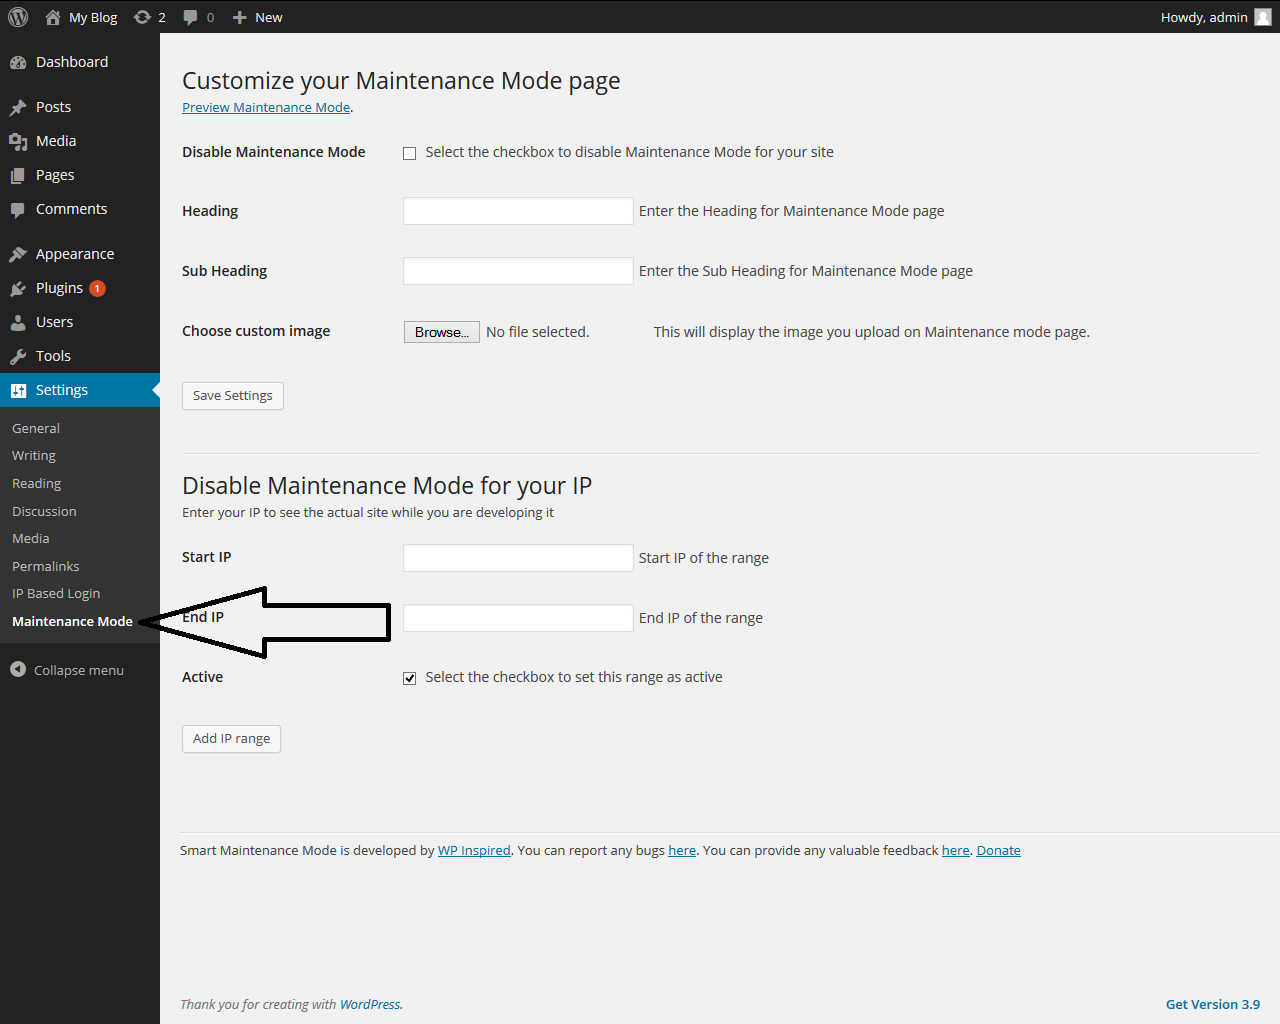
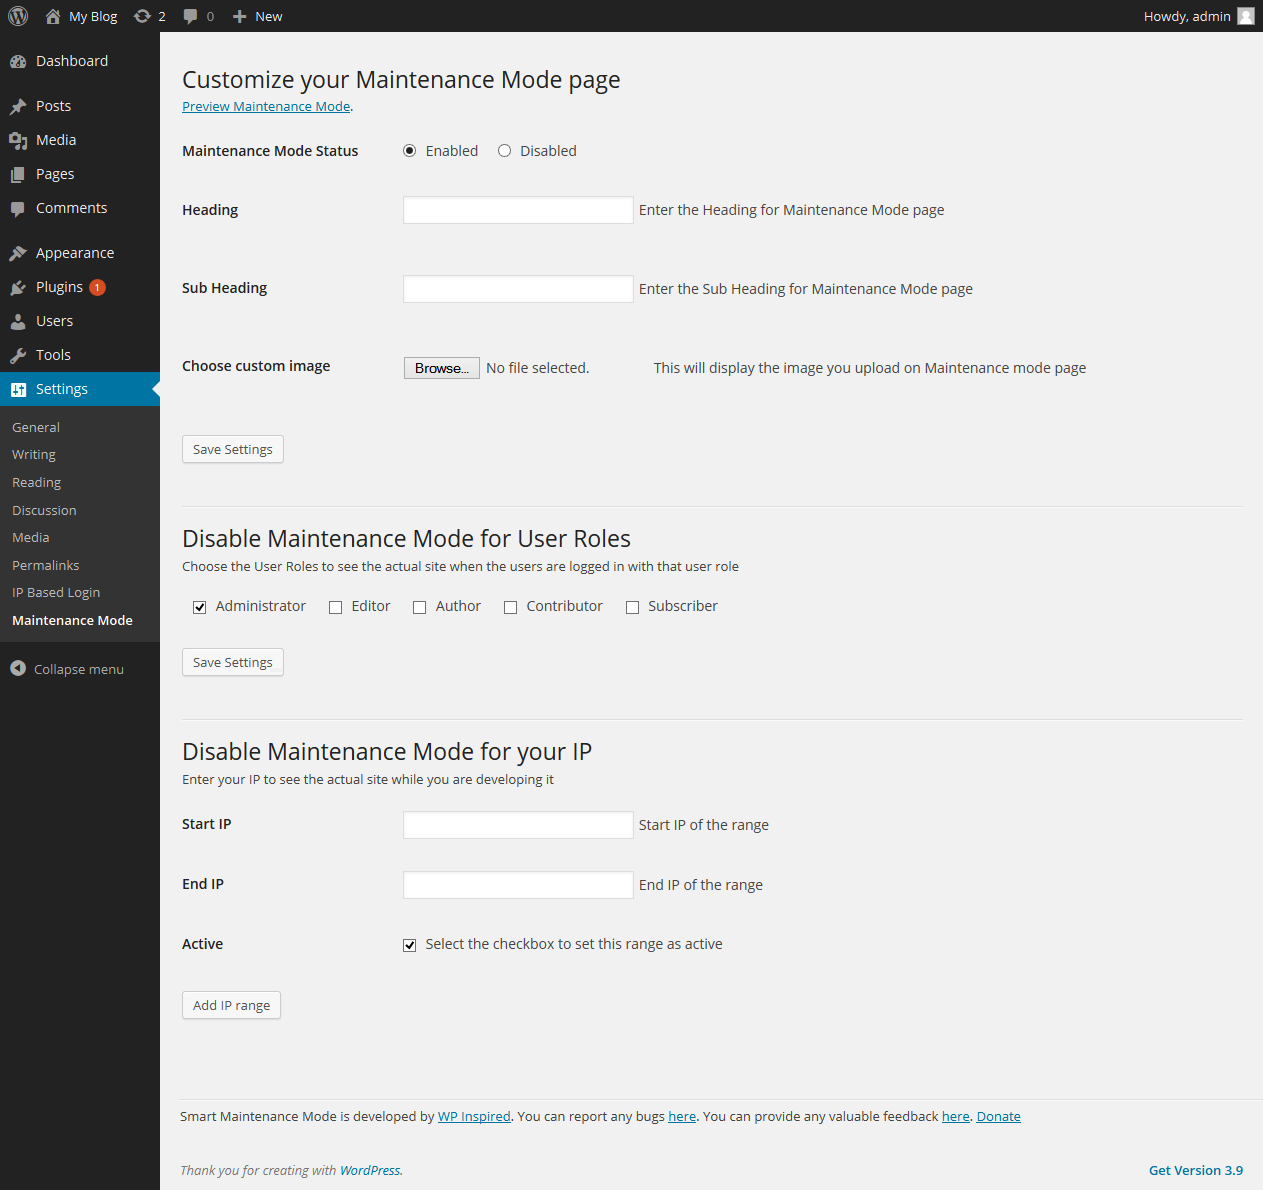
Added option to maintenance mode disabled for particular user roles
git-svn-id: https://plugins.svn.wordpress.org/smart-maintenance-mode/trunk@903410 b8457f37-d9ea-0310-8a92-e5e31aec5664

diff --git a/smart-maintenance-mode.php b/smart-maintenance-mode.php
@@ -1,13 +1,13 @@
 <?php
 /**
  * @package smart-maintenance-mode
- * @version 1.1
+ * @version 1.2
  */
 /*
 Plugin Name: Smart Maintenance Mode
 Plugin URI: http://wordpress.org/extend/plugins/smart-maintenance-mode/
 Description: Smart Maintenance Mode is a plugin which allows you to set your site to maintenance mode so that your readers see the Coming Soon page while you can see the actual development of your site. You can create ranges and define the IP range which will see the actual site using Smart Maintenance Mode.
-Version: 1.1
+Version: 1.2
 Author: Brijesh Kothari
 Author URI: http://www.wpinspired.com/
 License: GPLv3 or later
@@ -34,7 +34,7 @@ if(!function_exists('add_action')){
 	exit;
 }
 
-define('smm_version', '1.1');
+define('smm_version', '1.2');
 
 // Ok so we are now ready to go
 register_activation_hook( __FILE__, 'smart_maintenance_mode_activation');
@@ -85,7 +85,7 @@ global $wpdb;
 
 function maintenance_mode_page(){
 	
-	global $wpdb;
+	global $wpdb, $current_user;
 	
 	$logged_ip = smm_getip();
 	$result = '';
@@ -93,6 +93,9 @@ function maintenance_mode_page(){
 	$smm_heading = get_option('smm_heading');
 	$smm_subheading = get_option('smm_subheading');
 	$smm_image = get_option('smm_image');
+	$smm_roles = unserialize(get_option('smm_roles'));	
+	
+	$current_user_role = current($current_user->roles);
 	
 	$smm_heading = (!empty($smm_heading) ? $smm_heading : 'Website Under Maintenance');
 	$smm_subheading = (!empty($smm_subheading) ? $smm_subheading : 'This website is currently under going maintenance. We will be back online shortly. Please check back later !');
@@ -101,7 +104,7 @@ function maintenance_mode_page(){
 	$result = smm_selectquery($query);
 	
 	// Show the maintenance mode page
-	if(empty($disable_smm) && (empty($result) || !empty($_REQUEST['smm_preview']))){
+	if(!empty($_REQUEST['smm_preview']) || ((empty($result) && empty($smm_roles[$current_user_role]) && empty($disable_smm)))){
 		
 		echo '<title>'.get_option('blogname').' | Maintenance Mode</title>';
 		
@@ -251,7 +254,7 @@ function smm_objectToArray($d){
 
 function smart_maintenance_mode_option_page(){
 
-	global $wpdb;
+	global $wpdb, $wp_roles;
 	 
 	if(!current_user_can('manage_options')){
 		wp_die('Sorry, but you do not have permissions to change settings.');
@@ -260,6 +263,24 @@ function smart_maintenance_mode_option_page(){
 	/* Make sure post was from this page */
 	if(count($_POST) > 0){
 		check_admin_referer('smart-maintenance-mode-options');
+	}
+	
+	if(isset($_POST['save_user_roles'])){
+		$_user_roles = array();
+		
+		foreach($wp_roles->roles as $srk => $srv){
+			$_user_roles[$srk] = (smm_is_checked('role_'.$srk) ? 1 : 0);
+		}
+		
+		update_option('smm_roles', serialize($_user_roles));		
+
+		$saved = true;
+			
+		if(!empty($saved)){
+			echo '<div id="message" class="updated fade"><p>'
+				. __('The settings were saved successfully', 'smart-maintenance-mode')
+				. '</p></div>';
+		}
 	}
 	
 	if(isset($_POST['save_smm'])){
@@ -458,6 +479,8 @@ function smart_maintenance_mode_option_page(){
 	$smm_heading = get_option('smm_heading');
 	$smm_subheading = get_option('smm_subheading');
 	$smm_image = get_option('smm_image');
+	$smm_roles = unserialize(get_option('smm_roles'));
+	//print_r($smm_roles);
 	
 	?>
     
@@ -513,6 +536,28 @@ function smart_maintenance_mode_option_page(){
 		  </tr>
 		</table><br />
 		<input name="save_smm" class="button action" value="<?php echo __('Save Settings','smart-maintenance-mode'); ?>" type="submit" />		
+	  </form>
+      
+      <br /><br />
+      <hr />      
+	  <h2><?php echo __('Disable Maintenance Mode for User Roles','smart-maintenance-mode'); ?></h2>
+	  <?php echo __('Choose the User Roles to see the actual site when the users are logged in with that user role','smart-maintenance-mode'); ?>
+      
+	  <form action="options-general.php?page=smart-maintenance-mode" method="post">
+		<?php wp_nonce_field('smart-maintenance-mode-options'); ?>
+	    <table class="form-table">
+		  <tr>
+          	<td>
+				<?php
+                    foreach($wp_roles->roles as $rk => $rv){
+                        echo '<input type="checkbox" '.(!empty($smm_roles[$rk]) ? 'checked="checked"' : '').' name="role_'.$rk.'" /> ';
+                        echo __($rv['name'].'&nbsp;&nbsp;&nbsp;&nbsp;&nbsp;&nbsp;', 'smart-maintenance-mode');
+                    }			
+                ?>
+            </td>
+		  </tr>
+		</table><br />
+		<input name="save_user_roles" class="button action" value="<?php echo __('Save Settings','smart-maintenance-mode'); ?>" type="submit" />		
 	  </form>
       
       <br /><br />
